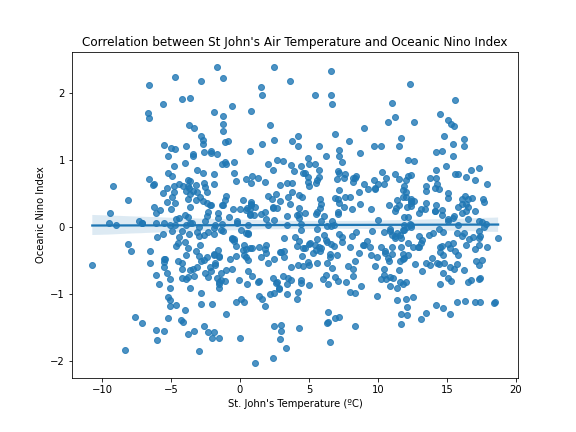
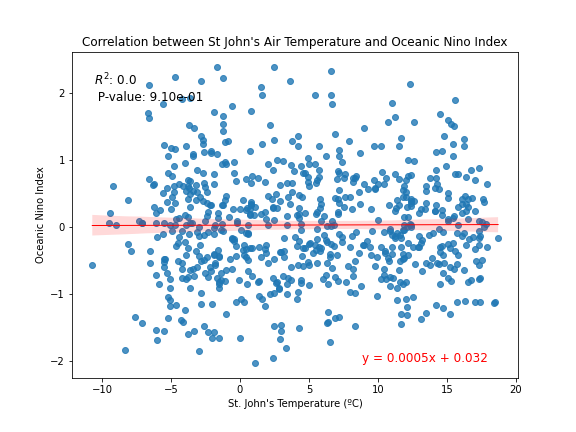
update figures to include annotated params

Changed region(s): [[0.1562, 0.4815, 0.875, 0.5417], [0.1562, 0.1505, 0.3438, 0.2407], [0.625, 0.8125, 0.8438, 0.8426]]

diff --git a/scripts/correlation_analysis.py b/scripts/correlation_analysis.py
@@ -7,6 +7,7 @@ Created on Thu Mar 20 00:08:12 2025
 """
 import os
 import seaborn
+import numpy as np
 import pandas as pd
 import matplotlib.pyplot as plt
 
@@ -52,14 +53,20 @@ enso_oni = pd.read_csv("./data/ONI_M_1950_2007.csv")
 combined_slev = pd.merge(van_sealvl, sj_sealvl, on="date", suffixes=("_van", "_sj"))
 
 corr_sea_lvl, p_value_sea_lvl = stats.pearsonr(combined_slev["sea_lvl_van"], combined_slev["sea_lvl_sj"])
+sealvl_r2 = corr_sea_lvl ** 2
+
+# linear correlation model
+sealvl_model = stats.linregress(combined_slev["sea_lvl_van"], combined_slev["sea_lvl_sj"])
 
 plt.figure(figsize=(8, 6))
-seaborn.regplot(x=combined_slev["sea_lvl_van"], y=combined_slev["sea_lvl_sj"])
+seaborn.regplot(x=combined_slev["sea_lvl_van"], y=combined_slev["sea_lvl_sj"], line_kws={"color": "red", "lw":1})
+plt.annotate(f'$R^2$: {np.round(sealvl_r2, 3)}\n P-value: {p_value_sea_lvl:.2e}', xy=(0.05, 0.85), xycoords='axes fraction', color='k', fontsize=12)
+plt.annotate(f'y = {np.round(sealvl_model[0],4)}x + {np.round(sealvl_model[1],4)}', xy=(0.65, 0.05), xycoords='axes fraction', color='r', fontsize=12)
 plt.xlabel("Vancouver Sea Level (m)")
 plt.ylabel("St. John's Sea Level (m)")
 plt.title("Correlation between Vancouver and St. John's Sea Levels")
 # plt.grid(True)
-plt.savefig('van_sj_sealvl_corr.png')
+plt.savefig('figures/van_sj_sealvl_corr.png')
 plt.show()
 
 
@@ -75,14 +82,22 @@ enso_oni["date"] = pd.to_datetime(enso_oni["date"])
 van_temp["year_month"] = van_temp["date"].dt.to_period("M")
 enso_oni["year_month"] = enso_oni["date"].dt.to_period("M")
 
-combined_data = pd.merge(van_temp, enso_oni, on="year_month", suffixes=("_temp", "_oni"))
+combined_data = pd.merge(van_temp, enso_oni, on="year_month", suffixes=("_temp", "_oni")).dropna(subset=['mean_temp', 'oni'])
+
+corr, p_value = stats.pearsonr(combined_data["mean_temp"], combined_data["oni"])
+r_squared = corr ** 2
+
+# linear correlation model
+model = stats.linregress(combined_data["mean_temp"], combined_data["oni"])
 
 plt.figure(figsize=(8, 6))
-seaborn.regplot(x=combined_data["mean_temp"], y=combined_data["oni"])
+seaborn.regplot(x=combined_data["mean_temp"], y=combined_data["oni"], line_kws={"color": "red", "lw":1})
+plt.annotate(f'$R^2$: {np.round(r_squared, 3)}\n P-value: {p_value:.2e}', xy=(0.05, 0.85), xycoords='axes fraction', color='k', fontsize=12)
+plt.annotate(f'y = {np.round(model[0],4)}x + {np.round(model[1],4)}', xy=(0.65, 0.05), xycoords='axes fraction', color='r', fontsize=12)
 plt.xlabel("Vancouver Temperature (ºC)")
 plt.ylabel("Oceanic Nino Index")
 plt.title("Correlation between Vancouver Air Temperature and Oceanic Nino Index")
-plt.savefig('vantemp_oni_corr.png')
+plt.savefig('figures/vantemp_oni_corr.png')
 plt.show()
 
 
@@ -94,14 +109,22 @@ plt.show()
 sj_temp["date"] = pd.to_datetime(sj_temp["date"])
 sj_temp["year_month"] = sj_temp["date"].dt.to_period("M")
 
-combined_data = pd.merge(sj_temp, enso_oni, on="year_month", suffixes=("_temp", "_oni"))
+combined_data = pd.merge(sj_temp, enso_oni, on="year_month", suffixes=("_temp", "_oni")).dropna(subset=['mean_temp', 'oni'])
+
+corr, p_value = stats.pearsonr(combined_data["mean_temp"], combined_data["oni"])
+r_squared = corr ** 2
+
+# linear correlation model
+model = stats.linregress(combined_data["mean_temp"], combined_data["oni"])
 
 plt.figure(figsize=(8, 6))
-seaborn.regplot(x=combined_data["mean_temp"], y=combined_data["oni"])
+seaborn.regplot(x=combined_data["mean_temp"], y=combined_data["oni"], line_kws={"color": "red", "lw":1})
+plt.annotate(f'$R^2$: {np.round(r_squared, 3)}\n P-value: {p_value:.2e}', xy=(0.05, 0.85), xycoords='axes fraction', color='k', fontsize=12)
+plt.annotate(f'y = {np.round(model[0],4)}x + {np.round(model[1],4)}', xy=(0.65, 0.05), xycoords='axes fraction', color='r', fontsize=12)
 plt.xlabel("St. John's Temperature (ºC)")
 plt.ylabel("Oceanic Nino Index")
 plt.title("Correlation between St John's Air Temperature and Oceanic Nino Index")
-plt.savefig('sjtemp_oni_corr.png')
+plt.savefig('figures/sjtemp_oni_corr.png')
 plt.show()
 
 
